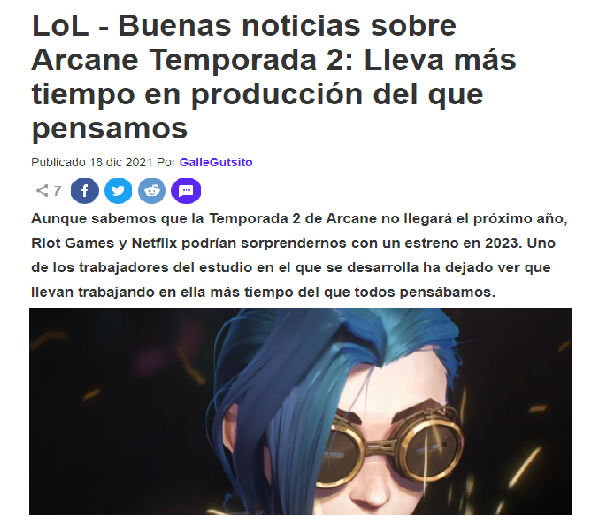
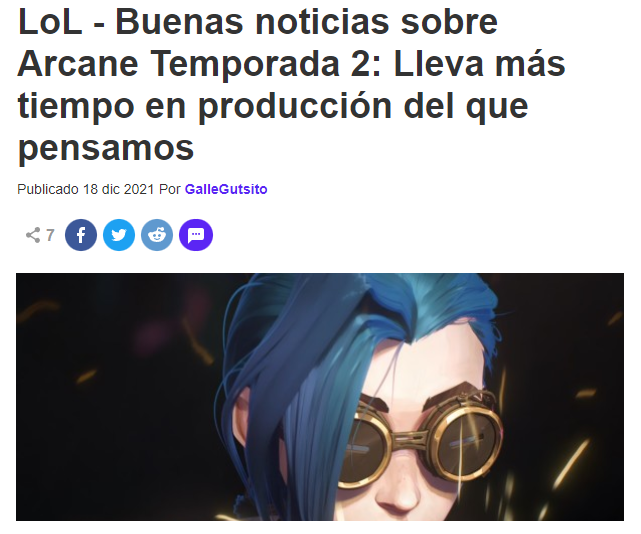
retoques de estilo
se agregaron estilos al link del aside, dejamos las imagenes de ultimas noticias sin altura predeterminada y se le saco el padding al header

diff --git a/css/estilos.css b/css/estilos.css
@@ -15,7 +15,7 @@ header {
     margin-right: auto;
     display: flex;
     justify-content: center;
-    padding: 0.35%;
+    /*padding: 0.35%;*/
     background-image: url("../html/images/arcane banner2.png");
     background-size: cover;
     background-repeat: no-repeat; 
@@ -170,6 +170,13 @@ p.listado{
     color: rgba(153, 133, 109, 0.671);
 }
 
+.right a:visited{
+    color: rgba(95, 80, 62, 0.671);
+}
+.right a:hover{
+    color: rgba(153, 133, 109, 0.671);
+}
+
 .noticias h3{
     max-width: 100%;
     margin-left: auto;
@@ -193,7 +200,7 @@ p.listado{
 .noticias div img{
     width: 100%;
     margin-bottom: 1rem;
-    height: 330px;
+    /*height: 330px;*/
     border-width: 4px;
     border-style: double;
     border-color:rgba(141, 113, 81, 0.671);
